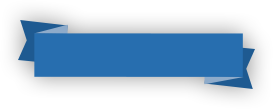
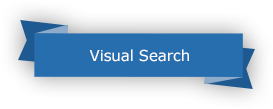
add ribbon

Changed region(s): [[0.3223, 0.4404, 0.7033, 0.578]]

diff --git a/app/css/application.css b/app/css/application.css
@@ -205,6 +205,18 @@ body {
   .startpage img {
     margin-top: 150px; }
 
+.ribbon {
+  background: url(../images/ribbon.png);
+  display: inline-block;
+  font-size: 0.1px;
+  width: 273px;
+  height: 109px;
+  position: absolute;
+  left: 50%;
+  margin-left: -136px;
+  top: 341px;
+  z-index: 100; }
+
 .fullscreen {
   position: absolute;
   width: 100%; }
@@ -218,7 +230,8 @@ body {
 
 .img-choice-container {
   display: -webkit-flex;
-  display: flex; }
+  display: flex;
+  margin: 0 0 40px 0; }
   .img-choice-container:hover .img-choice:before {
     opacity: 0; }
   .img-choice-container .img-choice {

diff --git a/app/css/scss/application.scss b/app/css/scss/application.scss
@@ -17,7 +17,20 @@ body {
 	background-repeat: no-repeat;
 	img { margin-top: 150px; }
 }
-	
+
+.ribbon { 	
+	background: url(../images/ribbon.png);	 
+	display: inline-block;
+	font-size: 0.1px;
+	width: 273px;
+	height: 109px;
+	position: absolute;
+	left: 50%;
+	margin-left: -136px;
+	top: 341px;
+	z-index: 100;
+}
+
 .fullscreen {
   position:absolute;
 	width:100%;
@@ -37,7 +50,7 @@ $choice-circle-radius: 30px;
 .img-choice-container {
   display: -webkit-flex;
   display: flex;
-
+	margin:0 0 40px 0;
   &:hover {
     .img-choice:before {
       opacity: 0;

diff --git a/app/views/choices.html b/app/views/choices.html
@@ -1,5 +1,5 @@
 <div ng-repeat="choice in choices" class="choices-container">
-  <p>{{choice.name}}</p>
+  <!--<p>{{choice.name}}</p>-->
 
   <div class="img-choice-container" ng-style="{ opacity: 1-(choices.length-$index-1)*0.3 }">
     <div ng-repeat="item in choice.items"

diff --git a/app/index.html b/app/index.html
@@ -14,7 +14,7 @@
 		<img src="/images/trivago-startpage-center.png" />
 
 	</div>
-
+	<h2 class="ribbon">Visual Search</h2>
 <div ng-include="'views/choices.html'" ng-controller="choicesCtrl" class="fullscreen"></div>
 
 
